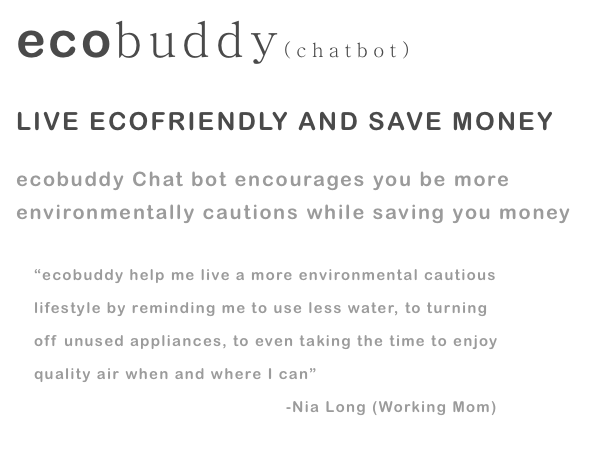
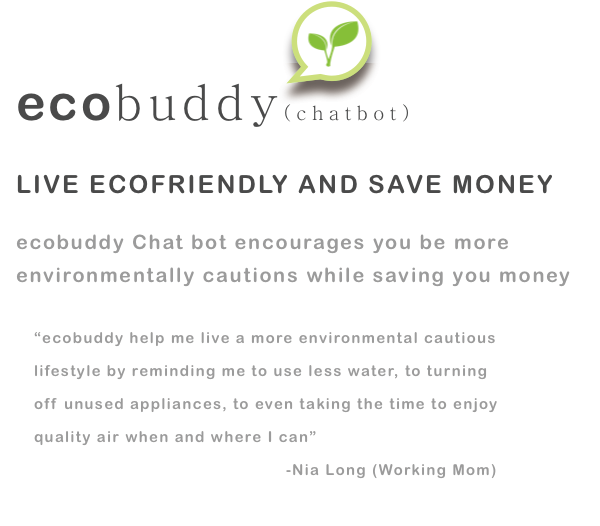
v1.4

diff --git a/css/relative.css b/css/relative.css
@@ -7,8 +7,10 @@
 {
   width: 50%;
   height: 100%;
-  background: #ff0000;
   float: left;
+  display: flex;
+  justify-content: center;
+  align-items: center;
 }
 .right-content
 {
@@ -21,19 +23,21 @@
 {
   height: 24.2%;
   width: 100%;
-  background: #fff000;
 }
 .left-mid
 {
   width: 100%;
   height: 50.4%;
-  background: #ffff00;
+  display: flex;
+  justify-content: center;
 }
 .left-bottom
 {
   width: 100%;
   height: 25.4%;
-  background: #00ff00;
+  display: flex;
+  justify-content: center;
+  align-items: center;
 }
 .learn-more-here{
   max-width: 9.7%;
@@ -54,31 +58,36 @@
   margin-top: 3.8%;
   float: right;
 }
-.ecobuddychatbot{
-	height: 6.7%;
-	width: 56.6%;
-  margin-left: 20.6%;
-  margin-top:-2%;
+.logo
+{
+  max-width: 80%;
   float: left;
 }
-.cost-effective-livin{
-	color: #39393A;
-	font-family: "Arial Rounded MT Bold";
-	font-size: 15%;
-	letter-spacing: 1%;
-	line-height: 45px;
-  margin-left: 20.6%;
+.cost-eff
+{
+  max-width: 55.6%;
   float: left;
-  margin-top: 3%;
+  margin-left: 20.6%;
+	font-family: "Arial Rounded MT Bold";
+	color: #39393A;
+  margin-top: 5%;
+  font-size: 40%;
 }
 .ecobuddy-chat-bot-en {
+  max-width: 70%;
+  float: left;
+  margin-left: 20.6%;
+  margin-top: 5%;
 	color: #898989;
 	font-family: "Arial Rounded MT Bold";
-	font-size: 10%;
-	letter-spacing: 1%;
-	line-height: 15%;
-  margin-left: 20.6%;
-  margin-right: 30%;
-  float: left;
-  margin-top: 3%;
+  font-size:30%;
+}
+.messenger
+{
+  max-width: 33.6%;
+}
+.main_img
+{
+  max-width: 100%;
+  max-height: 100%;
 }

diff --git a/relative.html b/relative.html
@@ -6,16 +6,21 @@
 
 <body>
 <div class="total">
-  <div class="left-content"></div>
+  <div class="left-content">
+    <img class="main_img" src="./img/img.png"/>
+  </div>
     <div class="right-content">
       <div class="left-top">
 
           <img class="oval-3" src="./img/learn.png">
     </div>
     <div class="left-mid">
+      <img class="logo" src="./img/words.png"/>
 
     </div>
-    <div class="left-bottom"></div>
+    <div class="left-bottom">
+      <img class="messenger" src="./img/messenger.png"/>
+    </div>
     </div>
 </div>
 </body>
